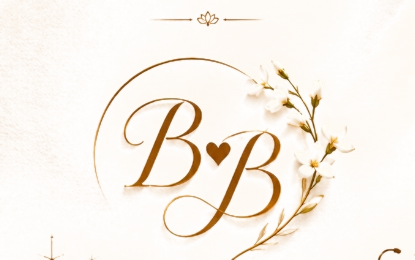
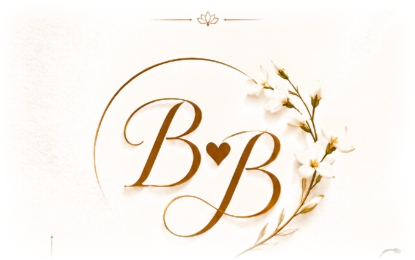
Add couple names and date to Scene 4, clean artwork borders, and implement smooth luxury cinematic opening bloom transition

diff --git a/style.css b/style.css
@@ -1667,6 +1667,63 @@ body {
   100% { left: 180%; opacity: 0; }
 }
 
+/* Scene 4: Couple Names & Wedding Date Materialization */
+.stage-names-box {
+  position: absolute;
+  top: calc(555 / 1024 * 100%);
+  left: calc(60 / 575 * 100%);
+  width: calc(455 / 575 * 100%);
+  height: calc(185 / 1024 * 100%);
+  mix-blend-mode: multiply;
+  opacity: 0;
+  transform: translateY(8px);
+  pointer-events: none;
+  animation: namesReveal 1.8s cubic-bezier(0.25, 1, 0.5, 1) 6.5s forwards;
+}
+
+@keyframes namesReveal {
+  0% {
+    opacity: 0;
+    transform: translateY(8px);
+    filter: drop-shadow(0 0 0 rgba(244, 219, 135, 0));
+  }
+  45% {
+    opacity: 1;
+    transform: translateY(0);
+    filter: drop-shadow(0 0 16px rgba(244, 219, 135, 0.85));
+  }
+  100% {
+    opacity: 1;
+    transform: translateY(0);
+    filter: drop-shadow(0 2px 8px rgba(140, 95, 20, 0.25));
+  }
+}
+
+.names-date-img {
+  width: 100%;
+  height: 100%;
+  object-fit: contain;
+  display: block;
+}
+
+.names-shimmer-gleam {
+  position: absolute;
+  top: 0;
+  left: -100%;
+  width: 60%;
+  height: 100%;
+  background: linear-gradient(105deg, transparent 20%, rgba(255, 255, 255, 0.8) 50%, transparent 80%);
+  transform: skewX(-25deg);
+  opacity: 0;
+  animation: namesGleamPass 1.8s ease 7.0s forwards;
+}
+
+@keyframes namesGleamPass {
+  0% { left: -100%; opacity: 0; }
+  30% { opacity: 1; }
+  100% { left: 180%; opacity: 0; }
+}
+
 /* Keyframes */
 @keyframes drawLine {
   to { stroke-dashoffset: 0; }
@@ -1677,7 +1734,7 @@ body {
 }
 
 /* ==========================================================================
-   LAYER 2: THE FINAL WEDDING INVITATION COVER & 3D CARD OPENING
+   LAYER 2: THE FINAL WEDDING INVITATION COVER & INTERACTIVE REVEAL
    ========================================================================== */
 .cinematic-cover-wrapper {
   position: absolute;
@@ -1686,9 +1743,9 @@ body {
   height: 100%;
   z-index: 4;
   opacity: 0;
-  perspective: 1600px;
-  transform-style: preserve-3d;
   pointer-events: none;
+  border-radius: 24px;
+  overflow: hidden;
   transition: opacity 1.8s cubic-bezier(0.4, 0, 0.2, 1);
 }
 
@@ -1701,22 +1758,6 @@ body {
 
 .cinematic-intro-overlay.is-revealed .stage-parchment-base {
   opacity: 0;
-}
-
-/* 3D Invitation Folio Door */
-.card-folio-door {
-  position: absolute;
-  inset: 0;
-  width: 100%;
-  height: 100%;
-  transform-origin: left center;
-  transform-style: preserve-3d;
-  backface-visibility: hidden;
-  will-change: transform, box-shadow, opacity;
-  transition: transform 1.25s cubic-bezier(0.33, 1, 0.68, 1), box-shadow 1.25s ease, opacity 1.1s ease;
-  z-index: 2;
-  border-radius: 24px;
-  overflow: hidden;
 }
 
 .cinematic-cover-img {
@@ -1750,55 +1791,48 @@ body {
   100% { left: 160%; }
 }
 
-/* Radiant Golden Bloom that bursts from behind as card opens */
-.card-interior-glow {
-  position: absolute;
-  inset: -20px;
-  background: radial-gradient(circle at 45% 50%, #FFFDF8 0%, rgba(255, 215, 0, 0.8) 35%, rgba(194, 150, 48, 0.3) 65%, transparent 85%);
-  opacity: 0;
-  pointer-events: none;
-  z-index: 1;
-  transform: scale(0.6);
-  transition: opacity 0.6s ease, transform 0.9s cubic-bezier(0.2, 0.8, 0.3, 1);
+/* Luxury Interactive Hover on Revealed Card */
+.cinematic-intro-overlay.is-revealed .cinematic-card-stage {
+  cursor: pointer;
+  transition: transform 0.4s cubic-bezier(0.2, 0.8, 0.25, 1), box-shadow 0.4s ease;
+}
+
+.cinematic-intro-overlay.is-revealed:not(.is-opening) .cinematic-card-stage:hover {
+  transform: scale(1.025) translateY(-4px);
+  box-shadow: 0 32px 85px rgba(90, 60, 20, 0.35), 0 0 45px rgba(244, 219, 135, 0.45);
 }
 
 /* ==========================================================================
-   THE 3D INVITATION OPENING TRANSITION (.is-opening)
+   THE LUXURY CINEMATIC INVITATION OPENING TRANSITION (.is-opening)
    ========================================================================== */
+.cinematic-intro-overlay.is-opening {
+  pointer-events: none;
+}
+
 .cinematic-intro-overlay.is-opening .cinematic-backdrop {
   opacity: 0;
-  transition: opacity 0.9s cubic-bezier(0.4, 0, 0.2, 1);
+  transition: opacity 0.85s cubic-bezier(0.4, 0, 0.2, 1);
 }
 
 .cinematic-intro-overlay.is-opening .cinematic-card-stage {
-  overflow: visible;
-  background: transparent;
-  box-shadow: none;
-}
-
-.cinematic-intro-overlay.is-opening .card-folio-door {
-  transform: perspective(1600px) rotateY(-105deg);
-  box-shadow: -30px 0 70px rgba(60, 30, 10, 0.5);
+  transform: scale(1.08) translateY(-14px);
   opacity: 0;
-}
-
-.cinematic-intro-overlay.is-opening .card-interior-glow {
-  opacity: 1;
-  transform: scale(1.6);
-  animation: interiorGlowFlash 0.9s ease-out forwards;
-}
-
-@keyframes interiorGlowFlash {
-  0% { opacity: 0; transform: scale(0.6); }
-  35% { opacity: 1; transform: scale(1.3); }
-  100% { opacity: 0; transform: scale(1.8); }
+  filter: blur(8px) brightness(1.18);
+  box-shadow: 0 0 60px rgba(244, 219, 135, 0.85), 0 0 100px rgba(212, 175, 55, 0.5);
+  transition: transform 0.85s cubic-bezier(0.2, 0.8, 0.25, 1), opacity 0.85s cubic-bezier(0.4, 0, 0.2, 1), filter 0.85s ease, box-shadow 0.85s ease;
 }
 
 .cinematic-intro-overlay.is-opening .cinematic-action-area {
   opacity: 0 !important;
-  transform: scale(0.88) translateY(16px);
+  transform: scale(0.92) translateY(12px);
   pointer-events: none;
-  transition: all 0.4s ease;
+  transition: opacity 0.3s ease, transform 0.3s ease;
+}
+
+.cinematic-intro-overlay.is-opening .cinematic-top-bar {
+  opacity: 0 !important;
+  pointer-events: none;
+  transition: opacity 0.3s ease;
 }
 
 /* ==========================================================================

diff --git a/index.html b/index.html
@@ -133,19 +133,18 @@
           <div class="monogram-burst-halo"></div>
         </div>
 
-      </div>
-
-      <!-- LAYER 2: The Final Wedding Invitation Artwork (Scene 5 Reveal & 3D Card Opening) -->
-      <div class="cinematic-cover-wrapper" id="coverWrapper" role="button" tabindex="0" aria-label="Open wedding invitation">
-        <!-- 3D Luxury Invitation Card Folio -->
-        <div class="card-folio-door" id="cardFolioDoor">
-          <img src="assets/invitation-cover.jpg" alt="Wedding Invitation" class="cinematic-cover-img" width="575" height="1024" loading="eager">
-          <!-- Luxury Gold Shimmer Sweep across the Monogram and details -->
-          <div class="cover-shimmer-sweep" aria-hidden="true"></div>
+        <!-- Scene 4: Couple Names & Wedding Date -->
+        <div class="stage-names-box" id="stageNames">
+          <img src="assets/illus_names.png" alt="Ar. N. Bose Raj &amp; Dr. H. Sree Babitha Sai - 28 &amp; 29 November 2026 Chennai" class="names-date-img">
+          <div class="names-shimmer-gleam"></div>
         </div>
 
-        <!-- Radiant Golden Bloom that bursts from behind as card opens -->
-        <div class="card-interior-glow" id="cardInteriorGlow" aria-hidden="true"></div>
+      </div>
+
+      <!-- LAYER 2: The Final Wedding Invitation Artwork (Scene 5 Reveal & Interactive Opening) -->
+      <div class="cinematic-cover-wrapper" id="coverWrapper" role="button" tabindex="0" aria-label="Open wedding invitation">
+        <img src="assets/invitation-cover.jpg" alt="Wedding Invitation" class="cinematic-cover-img" id="coverImg" width="575" height="1024" loading="eager">
+        <div class="cover-shimmer-sweep" aria-hidden="true"></div>
       </div>
 
       <!-- LAYER 3: Interactive Open Button (Scene 6) -->
